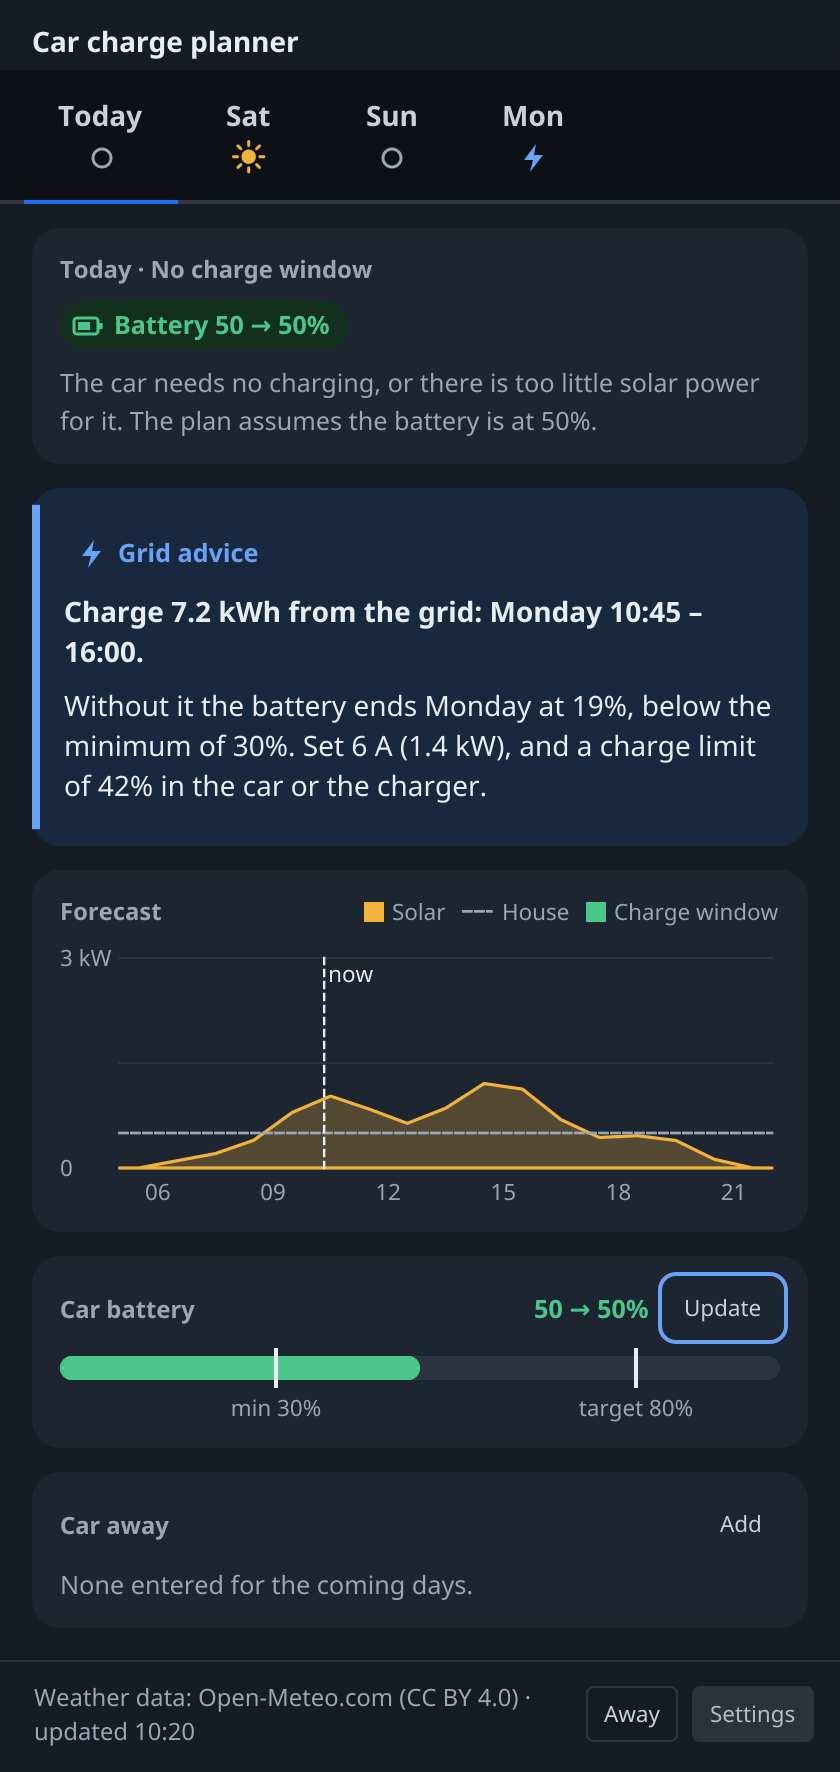
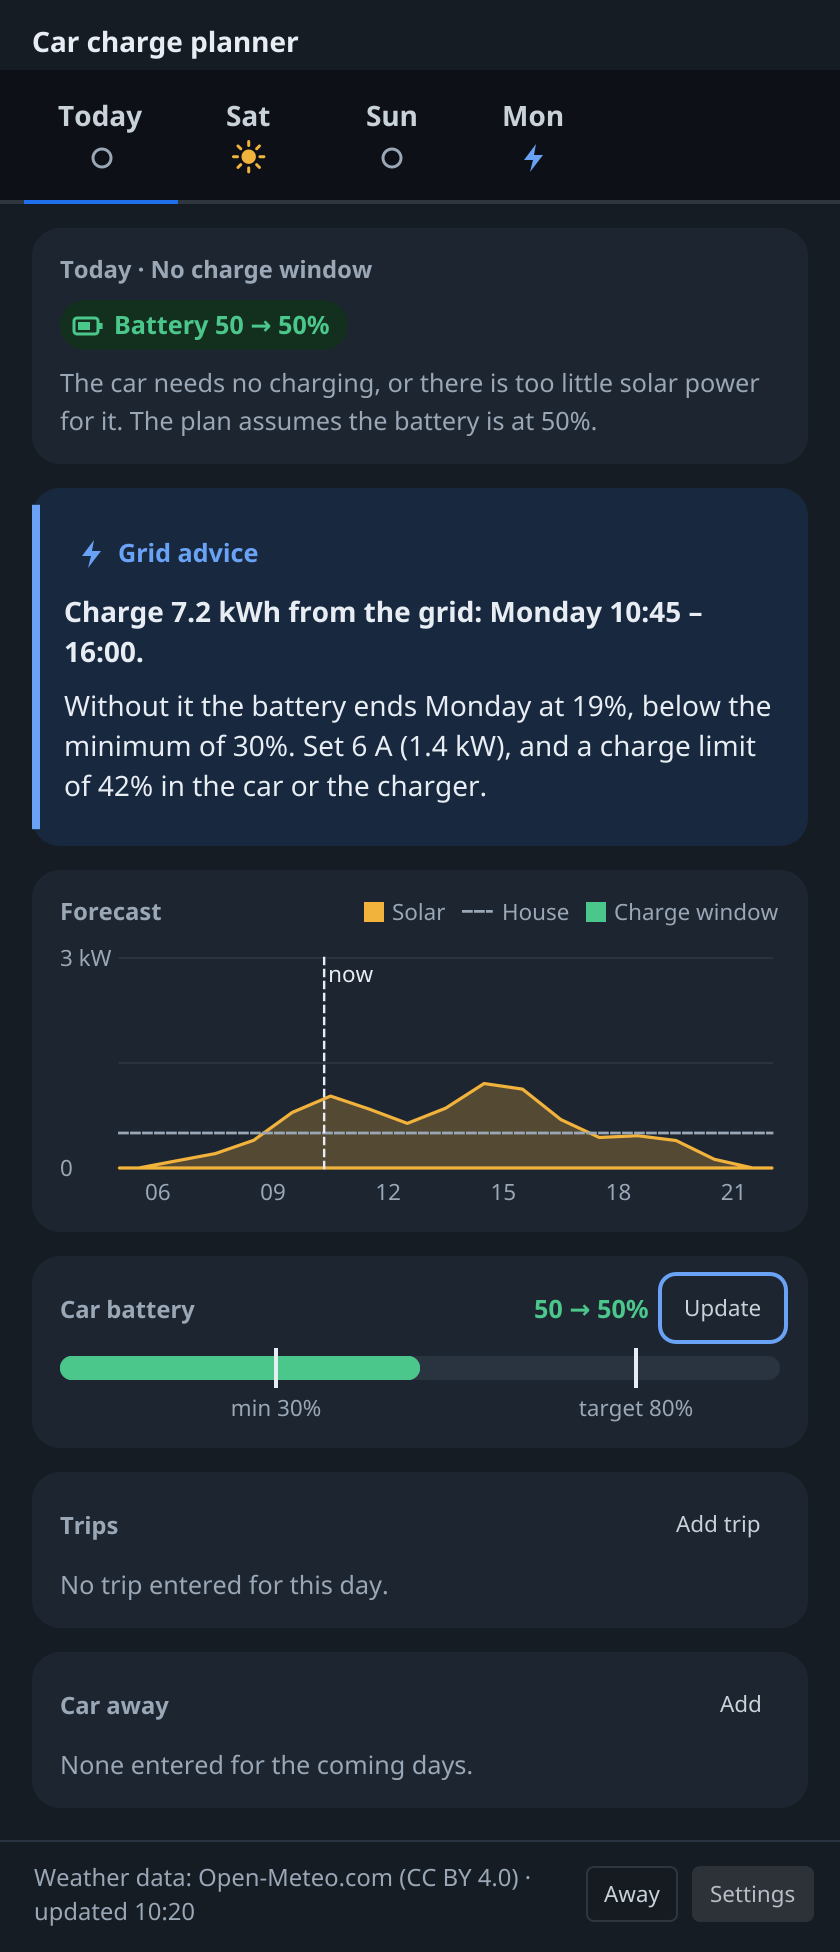
Pictures: a day with a trip, and the Trips card on every day

diff --git a/docs/guide.md b/docs/guide.md
@@ -25,8 +25,11 @@ When the app is started hidden at login, set-up does not open by itself; one not
 - The tray icon's dot shows the state of the plan, with the plan in its tooltip. Click it for the **dashboard**: a tab per day with that day's charge window, grid advice, the expected solar power against the house's use, and the car battery. The dashboard also opens in a window of its own.
 - **Update** on the battery card is where you enter the level the car shows. Until you do, the plan assumes 50% and says so.
 - **Add** on the Car away card marks the car away on the day you are looking at, all day or from a time to a time; the card lists the coming ones, each with **Remove**. The plan changes at once. Weekly away periods are in Settings, which the footer's **Away** button opens.
+- **Add trip** on the Trips card enters a drive from home and back that leaves on the day you are looking at: the day and time of departure and of return, the distance there and back, and whether you can charge at the destination. Each day's tab shows the trips the car is away for that day, with **Not with this car** (the trip does not count, and the car stays home), **I can charge at the destination**, **Change** and **Remove**.
 - Right-click the icon for **Open dashboard**, **Settings…** (**Set up…** until the app is set up), **About…** and **Quit**.
 - A desktop notification comes a few minutes before each charge window (the lead time is a setting), once per window. Clicking it opens the dashboard. On Linux notifications go straight to the desktop's notification service over D-Bus, so they work with or without a tray; on Windows they come from the tray icon.
+
+<picture><source media="(prefers-color-scheme: dark)" srcset="screenshots/java/dashboard-trip-dark.png"><img alt="Two dashboards on a day with a trip: the trip with its choices, and a new trip being entered." src="screenshots/java/dashboard-trip-light.png" width="600"></picture>
 
 ## Settings
 
